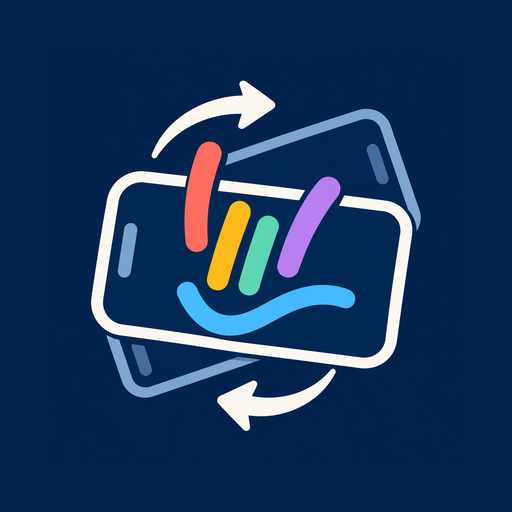
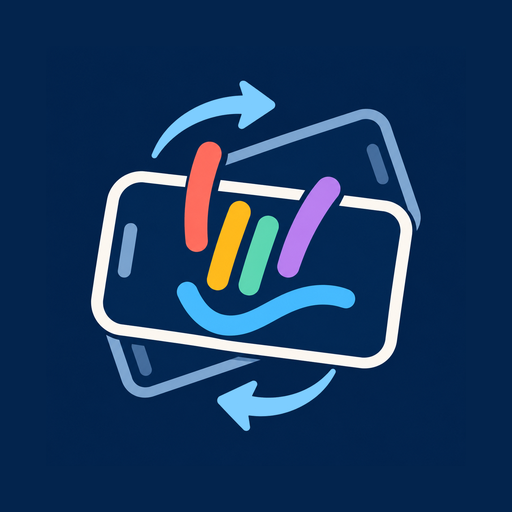
Sync from the private site (53a8900)

Changed region(s): [[0.2812, 0.1562, 0.5625, 0.3125], [0.4062, 0.7188, 0.6562, 0.8438]]

diff --git a/whoami/index.html b/whoami/index.html
@@ -9,7 +9,7 @@
 <meta name="apple-mobile-web-app-title" content="Who Do You Think You Are?">
 <title>Who Do You Think You Are?</title>
 <link rel="icon" type="image/png" href="../img/logo-512.png">
-<link rel="apple-touch-icon" href="icon-180.png?v=3">
+<link rel="apple-touch-icon" href="icon-180.png?v=4">
 <meta name="apple-mobile-web-app-status-bar-style" content="black-translucent">
 <link rel="manifest" href="manifest.json">
 <link rel="stylesheet" href="https://fonts.googleapis.com/css2?family=Fredoka:wght@500;600;700&family=Nunito:wght@600;700;800&display=swap">
@@ -162,7 +162,7 @@ button { font: inherit; cursor: pointer; border: 0; }
 </head>
 <body>
 <div class="wrap">
-  <header class="top"><img class="logo" src="icon-192.png?v=3" alt="" aria-hidden="true"><div><h1>Who Do You<br><span>Think You Are?</span></h1><p class="sub">Phone on your forehead. Friends describe it in ASL. Tilt to answer.</p></div><a id="edit" href="/colleen/whoami" hidden style="margin-left:auto;background:var(--ink);color:#fff;border-radius:12px;padding:8px 12px;font-weight:800;text-decoration:none;white-space:nowrap">✏ Edit decks</a></header>
+  <header class="top"><img class="logo" src="icon-192.png?v=4" alt="" aria-hidden="true"><div><h1>Who Do You<br><span>Think You Are?</span></h1><p class="sub">Phone on your forehead. Friends describe it in ASL. Tilt to answer.</p></div><a id="edit" href="/colleen/whoami" hidden style="margin-left:auto;background:var(--ink);color:#fff;border-radius:12px;padding:8px 12px;font-weight:800;text-decoration:none;white-space:nowrap">✏ Edit decks</a></header>
 
   <!-- 1. pick a deck -->
   <section id="pick" class="screen on">

diff --git a/whoami/sw.js b/whoami/sw.js
@@ -1,7 +1,7 @@
 /* Who Do You Think You Are? (was Forehead Flash, 2026-11-23): makes the Home Screen app open fast and keep working if the Wi-Fi drops.
    The page and icons: saved copy first, refreshed in the background. Her decks (decks.json): the network first, the saved copy if offline.
    Pictures: saved the first time they load, so a deck played once works offline. Change VER to replace everything. */
-const VER = 'ff-24', SHELL = ['./', 'index.html', 'starter.json', 'manifest.json', 'icon-192.png', 'icon-512.png'];
+const VER = 'ff-25', SHELL = ['./', 'index.html', 'starter.json', 'manifest.json', 'icon-192.png', 'icon-512.png'];
 self.addEventListener('install', e => { e.waitUntil(caches.open(VER).then(c => c.addAll(SHELL)).then(() => self.skipWaiting())); });
 self.addEventListener('activate', e => { e.waitUntil(caches.keys().then(ks => Promise.all(ks.filter(k => k !== VER && k !== 'ff-pics2').map(k => caches.delete(k)))).then(() => self.clients.claim())); });
 self.addEventListener('fetch', e => {

diff --git a/apps/index.html b/apps/index.html
@@ -55,7 +55,7 @@ header p { margin: 0; font-size: 18px; opacity: .92; }
       <a class="how" href="/numberwise/?help">📲 How to put it on your phone</a>
     </article>
     <article class="app"><!-- 2026-11-24 Colleen: "add the heads up game to the /apps site" -->
-      <div class="top"><img src="/whoami/icon-512.png?v=3" alt="" width="84" height="84"><div><h2>Who Do You Think You Are?</h2><p class="tag">Group guessing game</p></div></div>
+      <div class="top"><img src="/whoami/icon-512.png?v=4" alt="" width="84" height="84"><div><h2>Who Do You Think You Are?</h2><p class="tag">Group guessing game</p></div></div>
       <p class="d">Hold the phone on your forehead while friends describe the name in ASL. Tilt down when you get it, tilt up to pass. Play solo, in teams, or as a whole-class buzzer battle.</p>
       <a class="go" href="/whoami/">Play Who Do You Think You Are?</a>
     </article>
